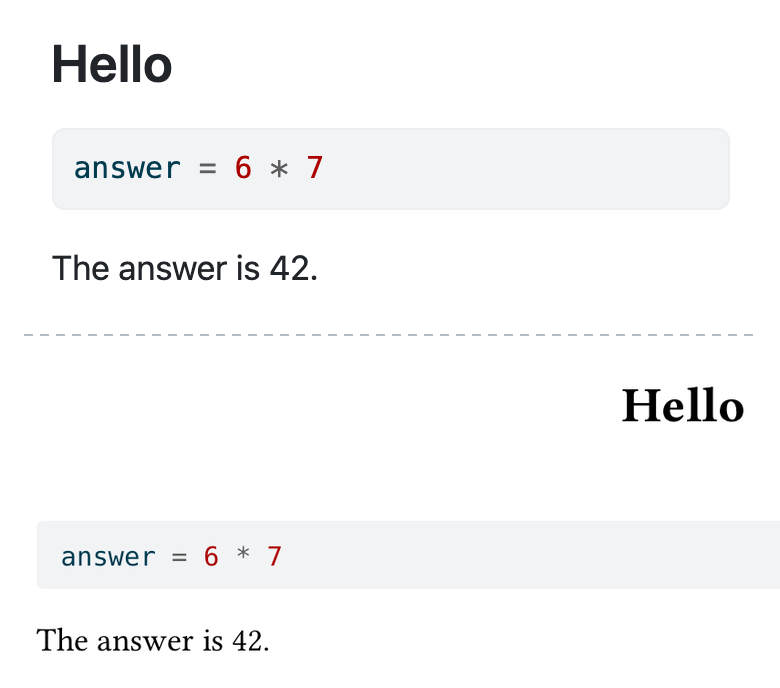
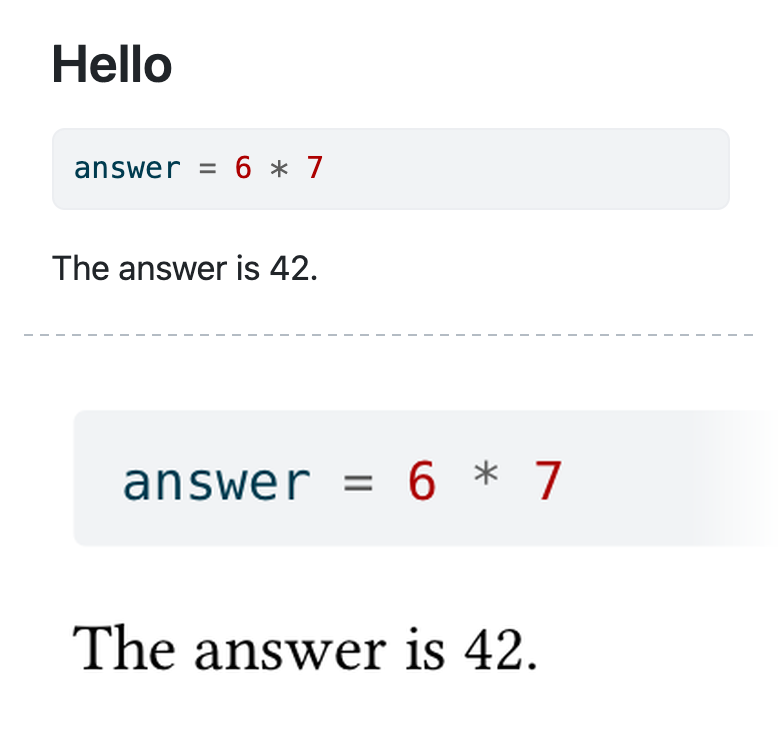
fix(book): chapter 4's 42 picture shows the pdf half whole and legible
The render review found the PDF crop cut its code block and pushed the
centred title to the right edge. The crop now starts below the title,
which the web page above already shows, keeps the old legible scale,
and fades its right edge where the code block runs on.

diff --git a/book/media/capture/hello_outputs.py b/book/media/capture/hello_outputs.py
@@ -4,8 +4,8 @@ Renders the chapter's hello.qmd (the file the agent writes in Step 6) in a tempo
 the book's own locked environment (uv run in book/, JUPYTER_PATH set to its kernels as the
 Makefile does), as both formats it names: hello.html and hello.pdf (Quarto's bundled Typst; no
 TeX). The picture stacks two crops, each showing "The answer is 42.": the web page at a 390 px
-viewport (drawn at twice the pixel density) and the left of the PDF's first page text (macOS Quick
-Look draws it, _pdf.py), with a dashed rule between them. The 42 is the file's own output.
+viewport (drawn at twice the pixel density) and the left of the PDF's first page below its title
+(macOS Quick Look draws it, _pdf.py), its right edge faded, with a dashed rule between them. The 42 is the file's own output.
 
 Run from book/media/capture (or CAPTURE_STEPS=hello; names another script owns are ignored):
     uv run --with playwright python hello_outputs.py [hello]
@@ -86,14 +86,25 @@ def pdf_crop(pdf: Path, width: int):
         png = Path(tmp) / "page.png"
         first_page_png(pdf, png, 2600)
         page = Image.open(png).convert("RGB")
-    # Keep the page's ink above its page number, cropped to the title (centred) and the text's
-    # left edge: the page's full width would draw the text too small for a phone.
+    # Keep the page's ink above its page number, below its title (the web page above shows the
+    # same title), from the text's left edge: the page's full width would draw the text too small
+    # for a phone. The code block's grey band runs on past the crop, so the right edge fades to
+    # white, a crop that says so.
     body = page.crop((0, 0, page.width, round(page.height * 0.85)))
-    box = Image.eval(body.convert("L"), lambda v: 255 if v < 200 else 0).getbbox()
-    if box is None:
+    ink = Image.eval(body.convert("L"), lambda v: 255 if v < 200 else 0)
+    if ink.getbbox() is None:
         raise SystemExit(f"{pdf.name}: the first page is blank")
-    left, top, right, bottom = box
-    page = page.crop((max(0, left - 40), max(0, top - 40), right + 40, bottom + 40))
+    rows = [any(ink.getpixel((x, y)) for x in range(0, ink.width, 4)) for y in range(ink.height)]
+    first = rows.index(True)
+    after_title = next(y for y in range(first, len(rows)) if not rows[y])
+    left, top, right, bottom = ink.crop((0, after_title, ink.width, ink.height)).getbbox()
+    top, bottom = top + after_title, bottom + after_title
+    page = page.crop((max(0, left - 40), max(0, top - 60), right + 120, bottom + 40))
+    fade = round(page.width * 0.12)
+    for i in range(fade):
+        a = (i + 1) / fade
+        col = page.crop((page.width - fade + i, 0, page.width - fade + i + 1, page.height))
+        page.paste(Image.blend(col, Image.new("RGB", col.size, "white"), a), (page.width - fade + i, 0))
     return page.resize((width, round(page.height * width / page.width)), Image.LANCZOS)
 
 
